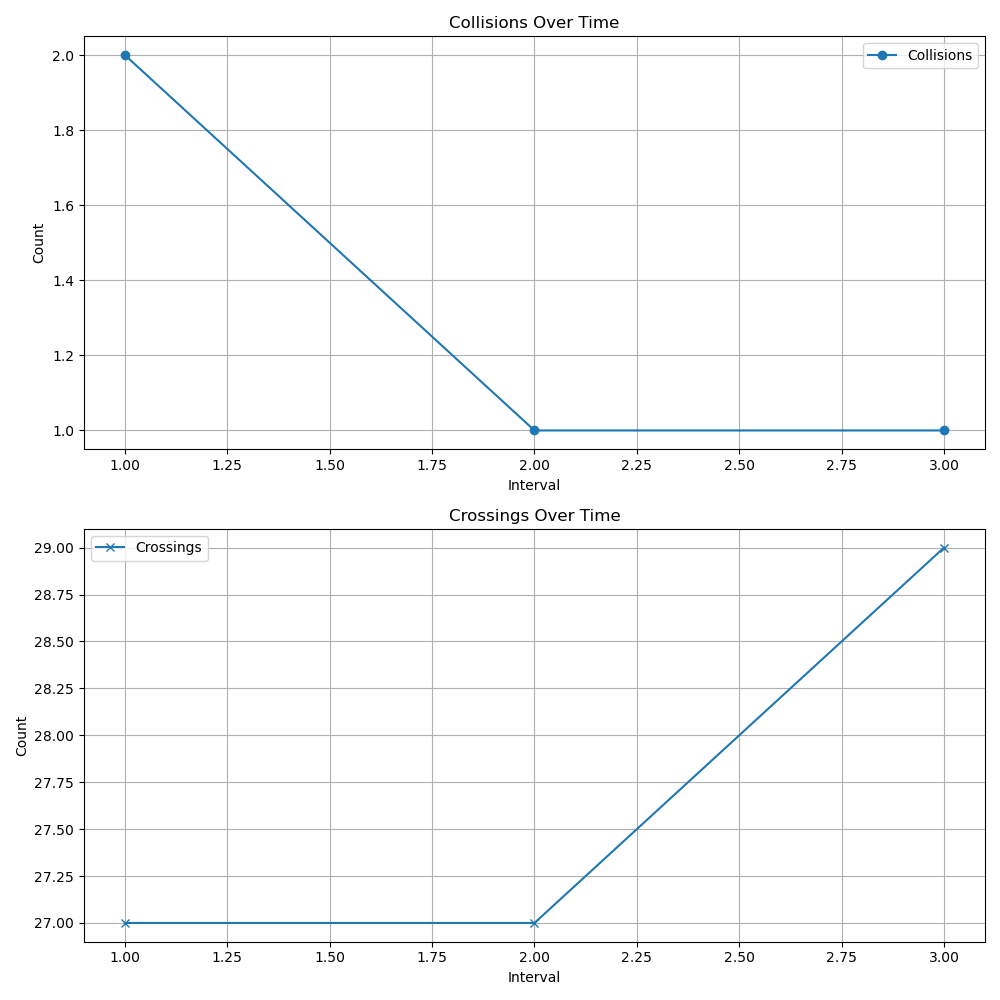
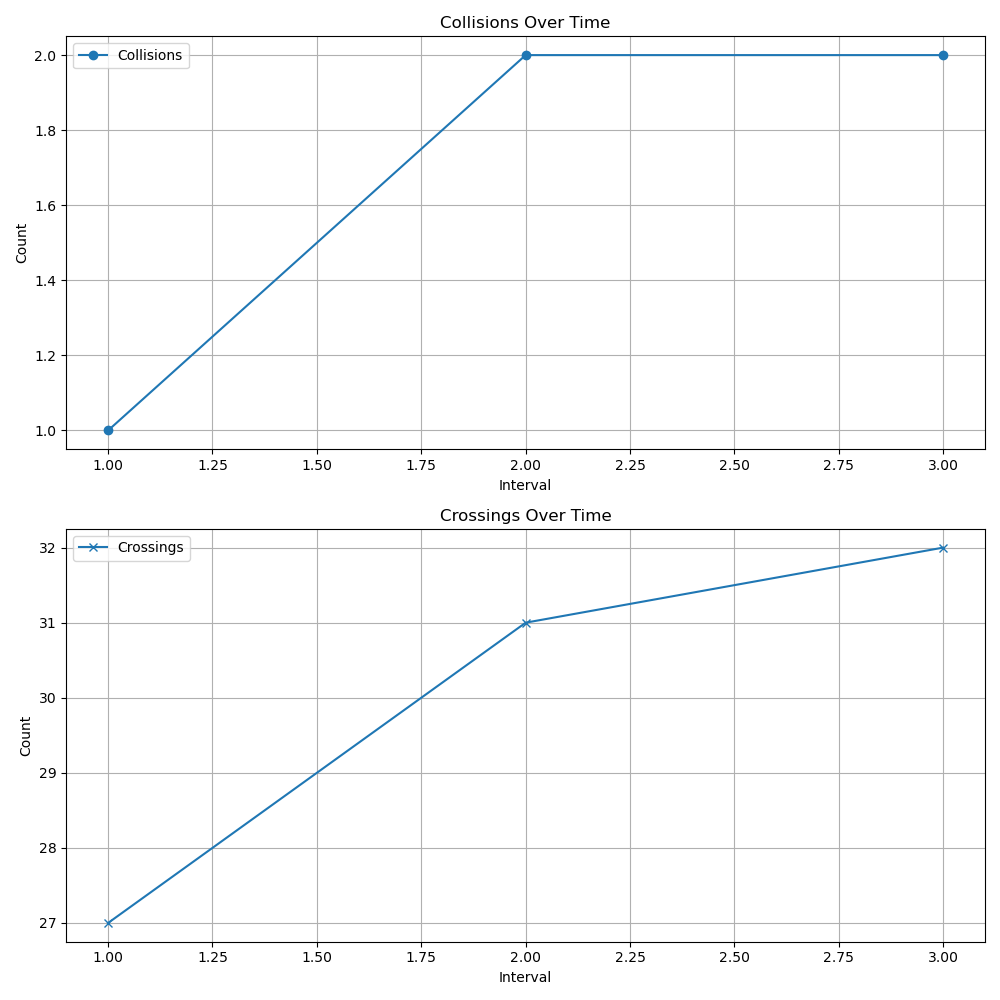
Initialize environment

diff --git a/environment.py b/environment.py
@@ -1,0 +1,86 @@
+import numpy as np
+import gym
+from gym import spaces
+from config import Config
+from sim import run_simulation, save_and_plot_data, count_collisions
+from intersection import Intersection, Paths, StartingPos
+
+class IntersectionEnv(gym.Env):
+    def __init__(self, config, intersection):
+        super(IntersectionEnv, self).__init__()
+        self.config = config
+        self.intersection = intersection
+        self.bottom_top_interval = 50
+        self.left_right_interval = 50
+
+        self.action_space = spaces.Box(
+            low=np.array([50, 25, 20, 2, 5]),  # min value of velocity, acceleration, collision distance, wait time, and distance between cars
+            high=np.array([250, 150, 120, 10, 75]),  # max values for params
+            dtype=np.float32
+        )
+        self.observation_space = spaces.Box(
+            low=0,
+            high=np.inf,
+            shape=(7,),  
+            dtype=np.float32
+        )
+        self.collision_records = []
+        self.intersection_records = []
+
+    def reset(self):
+        self.collision_records = []
+        self.intersection_records = []
+        self.config.update_parameters()
+        self.bottom_top_interval = 50
+        self.left_right_interval = 50
+        return self._get_state()
+
+    def step(self, action):
+        max_velocity, acceleration, collision_distance, wait_time, distance_between_cars = action
+        self.config.update_parameters(
+            max_velocity=max_velocity,
+            acceleration=acceleration,
+            collision_distance=collision_distance,
+            wait_time=wait_time,
+            distance_between_cars=distance_between_cars
+        )
+        
+        interval_results = run_simulation()
+        total_crossings = sum(crossings for _, crossings in interval_results)
+        total_collisions = sum(collisions for collisions, _ in interval_results)
+
+        for interval_collisions, interval_crossings in interval_results:
+            self.collision_records.append(interval_collisions)
+            self.intersection_records.append(interval_crossings)
+
+        reward = total_crossings - total_collisions * 10
+        obs = self._get_state()
+        done = len(self.collision_records) >= 10
+
+        return obs, reward, done, {}
+
+    def _get_state(self):
+        return np.array([
+            self.collision_records[-1] if self.collision_records else 0,
+            self.intersection_records[-1] if self.intersection_records else 0,
+            self.bottom_top_interval,
+            self.left_right_interval,
+            len(four_way.motion_path_array),
+            four_way.number_of_roads,
+            four_way.size,
+        ], dtype=np.float32)
+
+    def render(self, mode='human'):
+        save_and_plot_data(self.collision_records, self.intersection_records)
+
+# Define intersection
+four_way = Intersection(
+    motion_path_array=[Paths.TOP_BOTTOM, Paths.BOTTOM_TOP, Paths.LEFT_RIGHT, Paths.RIGHT_LEFT],
+    number_of_roads=4,
+    starting_positions=[StartingPos.BOTTOM, StartingPos.TOP, StartingPos.LEFT, StartingPos.RIGHT],
+    size=(100, 100)
+)
+
+# Initialize environment with config and intersection
+config = Config()
+env = IntersectionEnv(config, four_way)

diff --git a/sim.py b/sim.py
@@ -141,12 +141,13 @@ def run_simulation():
     interval_crossings = 0  # Reset interval crossings
 
     i = 0
+    interval_results = []
     while running:
         current_time = pygame.time.get_ticks()
         elapsed_time = current_time - start_time
         interval_elapsed_time = current_time - interval_start_time
 
-        if elapsed_time > 30001:  
+        if elapsed_time > 30005:  
             running = False
 
         if interval_elapsed_time >= 10000: 
@@ -158,6 +159,7 @@ def run_simulation():
             bottom_top_next_interval = bottom_top_interval + randint(-10, 10)  
             left_right_next_interval = left_right_interval + randint(-10, 10) 
             intersection_records.append(interval_crossings)
+            interval_results.append((interval_collisions, interval_crossings))
             interval_crossings = 0  # Reset interval crossings for the next interval
 
         # Generate BOTTOM_TOP cars at regular intervals
@@ -246,7 +248,7 @@ def run_simulation():
 
     save_and_plot_data(collision_records, intersection_records)
 
-    return total_crossings
+    return interval_results
 
 if __name__ == "__main__":
     fig, (ax1, ax2) = plt.subplots(2, 1, figsize=(10, 10))
